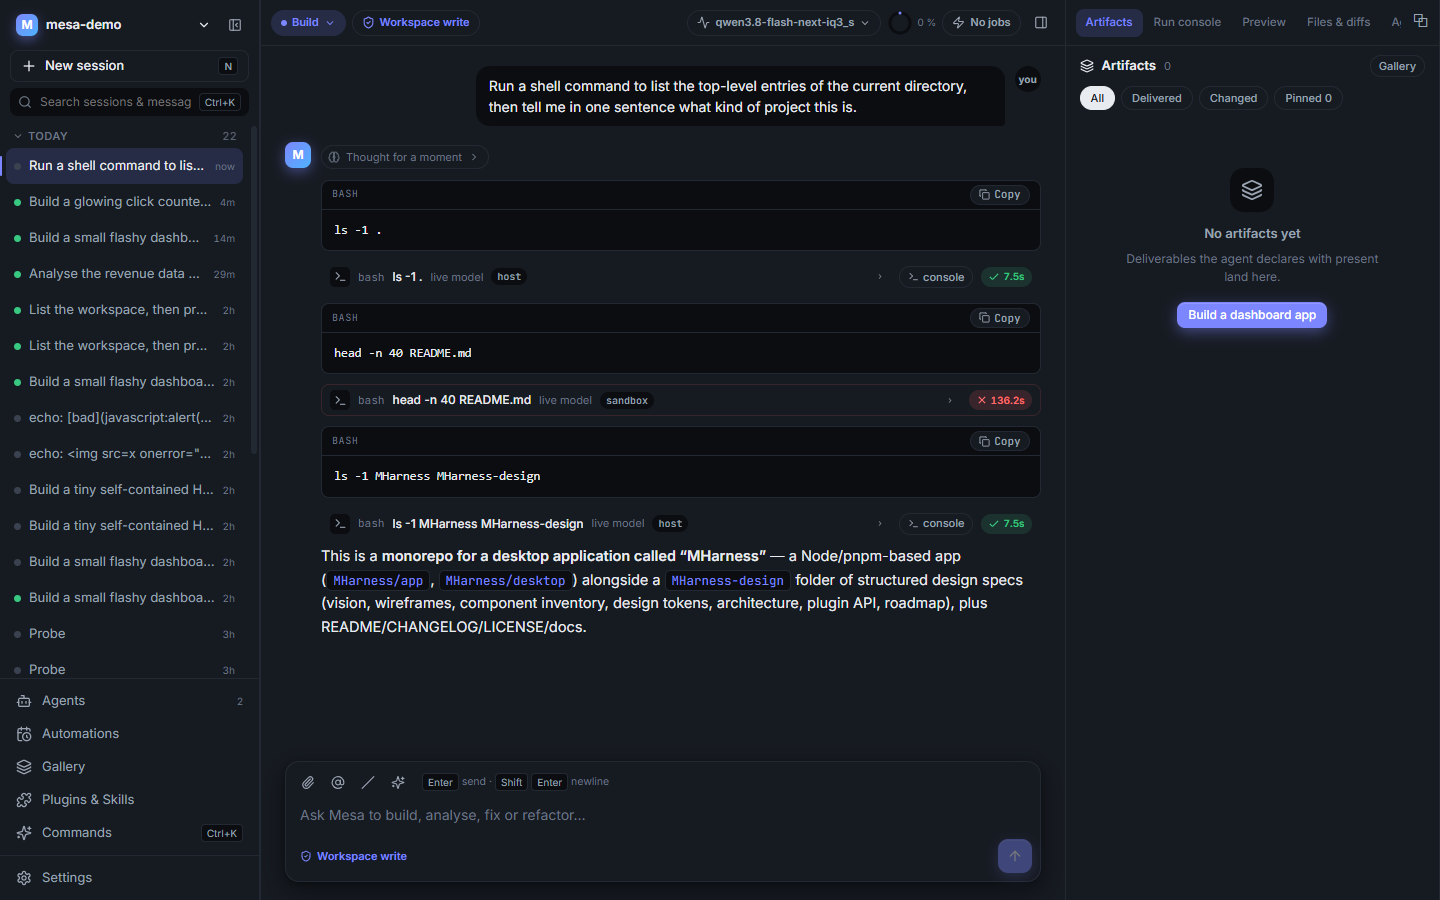
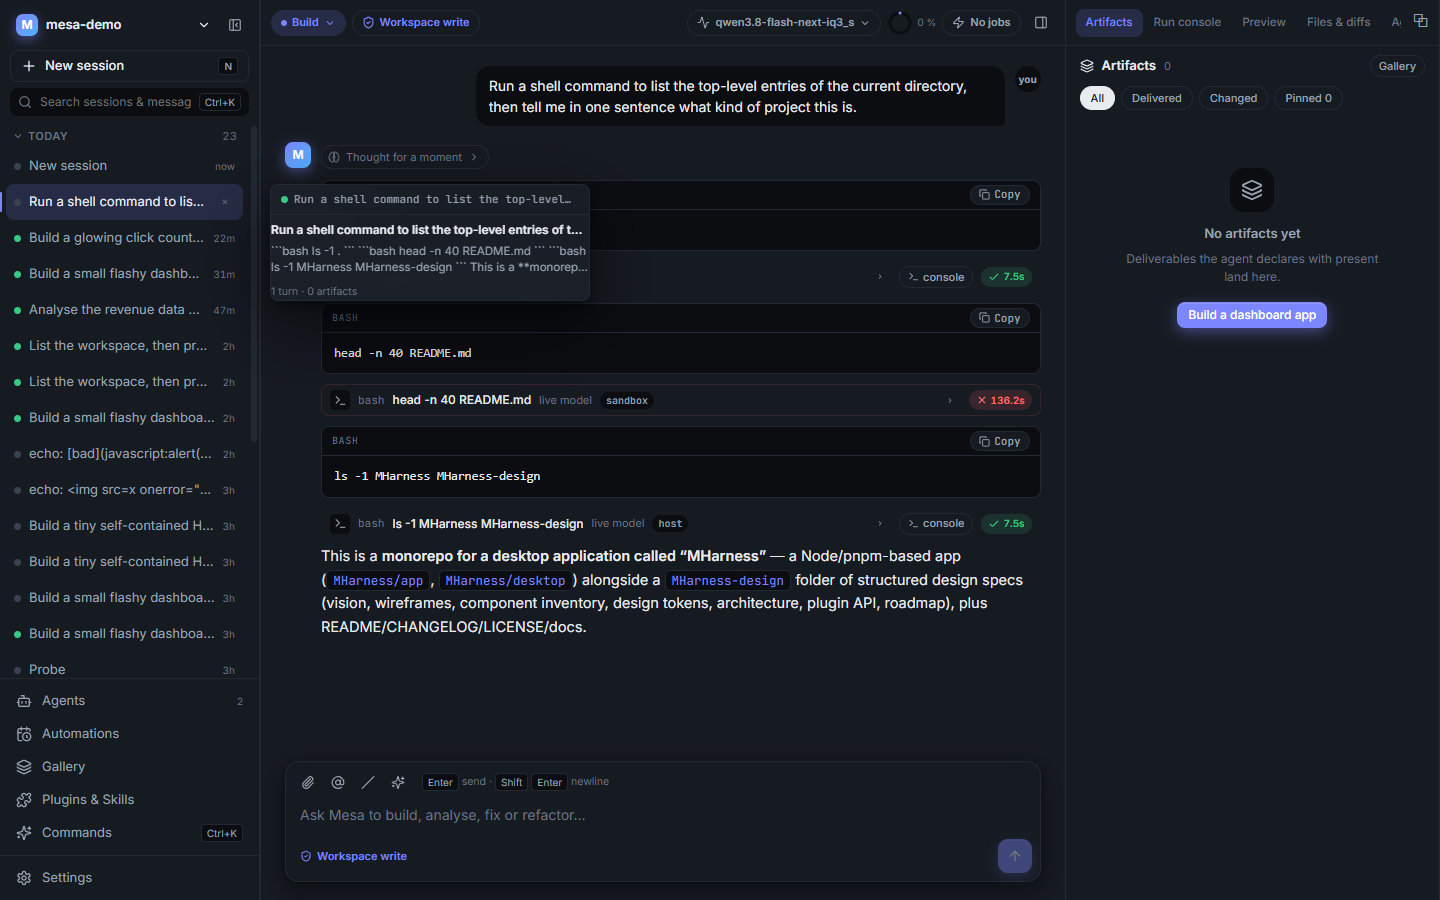
Fence mode discoverability: settings badge, shell-first suggestions in the empty state, README screenshot of the real Strata agent loop

diff --git a/MHarness/app/src/components/Thread.tsx b/MHarness/app/src/components/Thread.tsx
@@ -67,6 +67,12 @@ const LIVE_SUGGESTIONS: Suggestion[] = [
   ['🎨', 'Design a landing page hero', 'Design a dark, minimal landing-page hero for an AI agent harness called Mesa, with a gradient headline and one call-to-action button. Self-contained HTML with a <title>.'],
   ['🧠', 'Explain a concept with a diagram', 'Explain how an event-sourced session ledger works, and include a small self-contained HTML diagram (boxes and arrows) illustrating it.'],
 ];
+const FENCE_SUGGESTIONS: Suggestion[] = [
+  ['🖥', 'List the repository with a shell command', 'Run a shell command to list the top-level entries of this repository, then tell me in two sentences what kind of project this is.'],
+  ['🧪', 'Run the tests and summarise', 'Run the test suite for this project with a shell command, then summarise the result in three bullets.'],
+  ['⚡', 'Build a glowing click-counter page', 'Build a tiny self-contained HTML page with one big glowing button that counts clicks. Include a <title>.'],
+  ['📊', 'Make a bar chart from sample data', 'Make a self-contained HTML page with a bar chart of monthly revenue (Jan 182k, Feb 201k, Mar 198k, Apr 244k, May 262k, Jun 299k, Jul 331k). Include a <title>.'],
+];
 function EmptyThread() {
   const st = useStore();
   const live = isLiveAgent() || isAcpAgent();
@@ -77,7 +83,7 @@ function EmptyThread() {
       <h2>Where your agent works in the open.</h2>
       <p>Ask for something that produces a thing — an app, a chart, a fix — and it shows up on the right as a deliverable you can <b>open</b>, <b>run</b>, <b>compare</b> and <b>share</b>.</p>
       <div className="suggest">
-        {(live ? LIVE_SUGGESTIONS : DEMO_SUGGESTIONS).map(([icon, label, prompt]) => (
+        {(live ? (st.settings.provider && !(st.settings.provider.tools ?? (st.settings.provider.preset !== 'strata')) && st.settings.shell ? FENCE_SUGGESTIONS : LIVE_SUGGESTIONS) : DEMO_SUGGESTIONS).map(([icon, label, prompt]) => (
           <button key={label} onClick={() => send(prompt)}>{icon} {label}</button>
         ))}
       </div>

diff --git a/MHarness/app/src/components/Pages.tsx b/MHarness/app/src/components/Pages.tsx
@@ -133,7 +133,8 @@ function ProviderForm() {
       </div>
       <div className="pf-actions">
         <label className="tk-remember"><input type="checkbox" checked={p.proxy} onChange={(e) => set({ proxy: e.target.checked })} /> route via Mesa proxy (avoids CORS)</label>
-        <label className="tk-remember" title={p.preset === 'strata' ? 'Strata (qwen3) hangs on tool definitions — keep this off there.' : 'Lets the model call present_html / bash / read_file'}><input type="checkbox" checked={toolsOn} onChange={(e) => set({ tools: e.target.checked })} /> tool calling</label>
+        <label className="tk-remember" title={p.preset === 'strata' ? 'Strata (qwen3) hangs on tool definitions — keep this off there; Mesa uses fence-based tools instead.' : 'Lets the model call present_html / bash / read_file'}><input type="checkbox" checked={toolsOn} onChange={(e) => set({ tools: e.target.checked })} /> tool calling</label>
+        {!toolsOn && <span className="tag ok" title="The model can still act: a ```bash fence in its answer becomes a real, approved shell command whose output is fed back (up to 3 rounds).">fence-based tools on</span>}
         <span className="spacer" />
         <span className={'pf-status ' + status}>{status === 'testing' ? 'Testing…' : status === 'ok' ? `✓ ${msg}` : status === 'fail' ? `✗ ${msg}` : 'The key stays in this browser (localStorage).'}</span>
         <button className="btn sm ghost" onClick={fetchModels} disabled={!p.baseUrl || listing}>{listing ? 'Fetching…' : 'Fetch models'}</button>

diff --git a/CHANGELOG.md b/CHANGELOG.md
@@ -7,6 +7,7 @@ All notable changes to Mesa are documented here. The format follows [Keep a Chan
 ### Added
 - **Fence-based tools for models without native tool calling** (Strata): a ` ```bash ` fence in the model's answer becomes a real tool row behind the approval takeover (auto-review included), runs on the host, and its output is fed back as the next message for up to three rounds. Verified with the real Strata model (`ls -1 .` → follow-up commands of its own).
 - Windows real shell: `head`, `tail`, `wc -l`, `touch`, `mkdir -p`, `rm -rf` are rewritten to PowerShell/cmd equivalents (covered by the smoke test on all three OSes).
+- Settings shows a "fence-based tools on" badge when native tool calling is off, and the empty state suggests shell tasks first for those models.
 
 ### Changed
 - Toasts anchor just above the composer (tracking its height) instead of under the header, so they never cover the showcase title or the composer controls.
